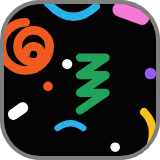
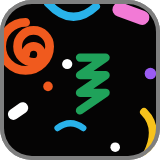
Рубашки: звезда в каждом ромбе «Карнавала», скругление 16 из 80
- Карнавал: звезда в каждом ромбе, звёзды рисуются поверх всех ромбов.
- Скругление рубашек 20% (16 из 80) — в настройках, профиле, поиске
  соперника, колоде и картах рубашкой вверх в матче.
- Превью в docs/catalog/ обновлены.

Claude-Session: https://claude.ai/code/session_01TenupaMUBZ7GZYMb58b3Sb

diff --git a/js/catalog/backs.figma.js b/js/catalog/backs.figma.js
@@ -540,14 +540,16 @@ const BACKS_FIGMA = [
       const pal = ['#fb9a3c', '#f9a8c8', '#f2643a', '#fde3d0'];
       const w = 33;
       const h = 46;
+      // звезда в каждом ромбе; звёзды — вторым проходом, чтобы ромбы их не перекрывали
+      let stars = '';
       for (let j = -1; j <= 5; j++) for (let i = -1; i <= 3; i++) {
         const x = i * w + (j % 2 ? w / 2 : 0);
         const y = j * h / 2;
         const col = pal[(((i + j * 2) % 4) + 4) % 4];
         out += diamond(x, y, w / 2, h / 2, col);
-        if ((i + j) % 2 === 0) out += star(x, y, 7, col === '#fb9a3c' || col === '#f2643a' ? '#ffffff' : '#fb9a3c', 4, 0.3);
+        stars += star(x, y, 7, col === '#fb9a3c' || col === '#f2643a' ? '#ffffff' : '#fb9a3c', 4, 0.3);
       }
-      return out;
+      return out + stars;
     },
   },
 ];

diff --git a/css/cosmetics24.css b/css/cosmetics24.css
@@ -53,12 +53,12 @@
   background: var(--cb-bg, var(--cb));
 }
 
-/* рубашки по макету Figma (18036:39909): фон #1c1c1e, обводка 2px #7f7f7f,
-   радиус 20 из 80 — 25% */
+/* рубашки по макету Figma (18036:39909): фон #1c1c1e, обводка 2px #7f7f7f;
+   скругление 16 из 80 — 20% (по просьбе, в макете 20) */
 .cb24-fig {
   --cb: #1c1c1e;
   --cb-rim: #7f7f7f;
-  border-radius: 25%;
+  border-radius: 20%;
   background: var(--cb-bg) #1c1c1e;
   box-shadow: inset 0 0 0 2px var(--cb-rim);
 }

diff --git a/css/match24.css b/css/match24.css
@@ -96,7 +96,7 @@ html.m24 .deck-badge {
 }
 
 html.m24 .deck-badge .cb24 {
-  border-radius: 18%;
+  border-radius: 20%;
   box-shadow: inset 0 0 0 2px var(--cb-rim, color-mix(in srgb, var(--cb) 45%, #fff)), 0 2px 6px rgba(0, 0, 0, 0.5);
 }
 
@@ -121,7 +121,7 @@ html.m24 .card.face-back {
 }
 
 html.m24 .card.face-back .cb24 {
-  border-radius: 16%;
+  border-radius: 20%;
 }
 
 /* шторка «?» поверх поля */

diff --git a/docs/readme.md b/docs/readme.md
@@ -1082,7 +1082,7 @@ anime.animate(target, {
 - **Всё в общем каталоге** (`js/catalog/`, `css/catalog/`, описание — [`docs/catalog.md`](catalog.md)): экраны берут рамку и рубашку по id через `FRAME_CATALOG` / `BACK_CATALOG` (`js/cosmetics24.js` — прокси для прежних вызовов). Всё рисуется HTML / CSS / SVG, без картинок и canvas.
 - **В игре только обычная редкость, без анимаций.** Редкие и эпические рамки и рубашки описаны, но выключены (`ACTIVE = ['basic']`); включать будем в следующих версиях.
 - **Рамки — 30 по макету Figma** (раздел «Рамки», 18162:84720; `js/catalog/frames.figma.js`, `fr-01…30`). Всё на CSS и SVG, без картинок: градиенты и векторы взяты из макета (`js/catalog/frames.figma.data.js`), а узоры, которые в макете были растровыми картинками (конфетти, ленточки, снежная пыль, изолинии, искры, снежинки), перерисованы векторно. Прежние рамки («Белая», `frame-NN`, новогодние) выведены из игры, код сохранён. Список рамок и рубашек с id и картинками — в начале [`docs/catalog.md`](catalog.md).
-- **Рубашки — 30 по макету Figma** (раздел «Рубашки», 18036:39909; `js/catalog/backs.figma.js`, `card-01…30`): квадрат с фоном #1c1c1e, обводкой 2px #7f7f7f и радиусом 25%. Узоры из макета (там это растровые картинки) перерисованы векторами SVG: шахматка, червячки, арлекин, посыпка, изолинии, волны, мемфис, звёзды, кляксы, смайлы, конфетти, облака, растр, пиксели, ацтекский узор, лучи, плитка, спираль, сетка с кругами, карнавальные ромбы. Зимние рубашки из генератора (`winter-01…30`) выключены, код сохранён. Сохранённый старый выбор показывается «Базовой».
+- **Рубашки — 30 по макету Figma** (раздел «Рубашки», 18036:39909; `js/catalog/backs.figma.js`, `card-01…30`): квадрат с фоном #1c1c1e, обводкой 2px #7f7f7f и скруглением 20% (16 из 80, везде — в настройках, профиле, поиске и матче). Узоры из макета (там это растровые картинки) перерисованы векторами SVG: шахматка, червячки, арлекин, посыпка, изолинии, волны, мемфис, звёзды, кляксы, смайлы, конфетти, облака, растр, пиксели, ацтекский узор, лучи, плитка, спираль, сетка с кругами, карнавальные ромбы. Зимние рубашки из генератора (`winter-01…30`) выключены, код сохранён. Сохранённый старый выбор показывается «Базовой».
 - В настройках профиля во вкладках «Рамки» и «Рубашка колоды» — секция «Обычные · 30 вариантов». Соперник в матче — со случайной рамкой и первой рубашкой каталога. Награда «Оформление» в магазине — любая рамка или рубашка из каталога.
 
 #### Версия 2: матч в облике из профиля

diff --git a/docs/catalog.md b/docs/catalog.md
@@ -232,8 +232,9 @@ BACK_CATALOG.list               // в игре (30); all — с выключен
 
 **Сейчас в игре — 30 рубашек по макету Figma** (`card-01…30`, файл
 `L9YY2OHqMbFIK7tqx1nuLJ`, раздел «Рубашки», узел `18036:39909`). Рамка как в
-макете: квадрат, фон `#1c1c1e`, обводка 2px `#7f7f7f` (`--cb-rim`), радиус
-25% (20 из 80) — класс `.cb24-fig`. В макете, кроме «Базовой», узоры — растровые
+макете: квадрат, фон `#1c1c1e`, обводка 2px `#7f7f7f` (`--cb-rim`), скругление
+20% (16 из 80; в макете 20 — изменено по просьбе) — класс `.cb24-fig`. Так же
+скруглены колода и карты рубашкой вверх в матче. В макете, кроме «Базовой», узоры — растровые
 картинки. Здесь каждая перерисована векторами: функция `draw(h)` в
 `js/catalog/backs.figma.js` возвращает SVG 100×100. Помощники
 `BACK_FIGMA_HELPERS`: прямоугольник, круг, кольцо, многоугольник, линия,
